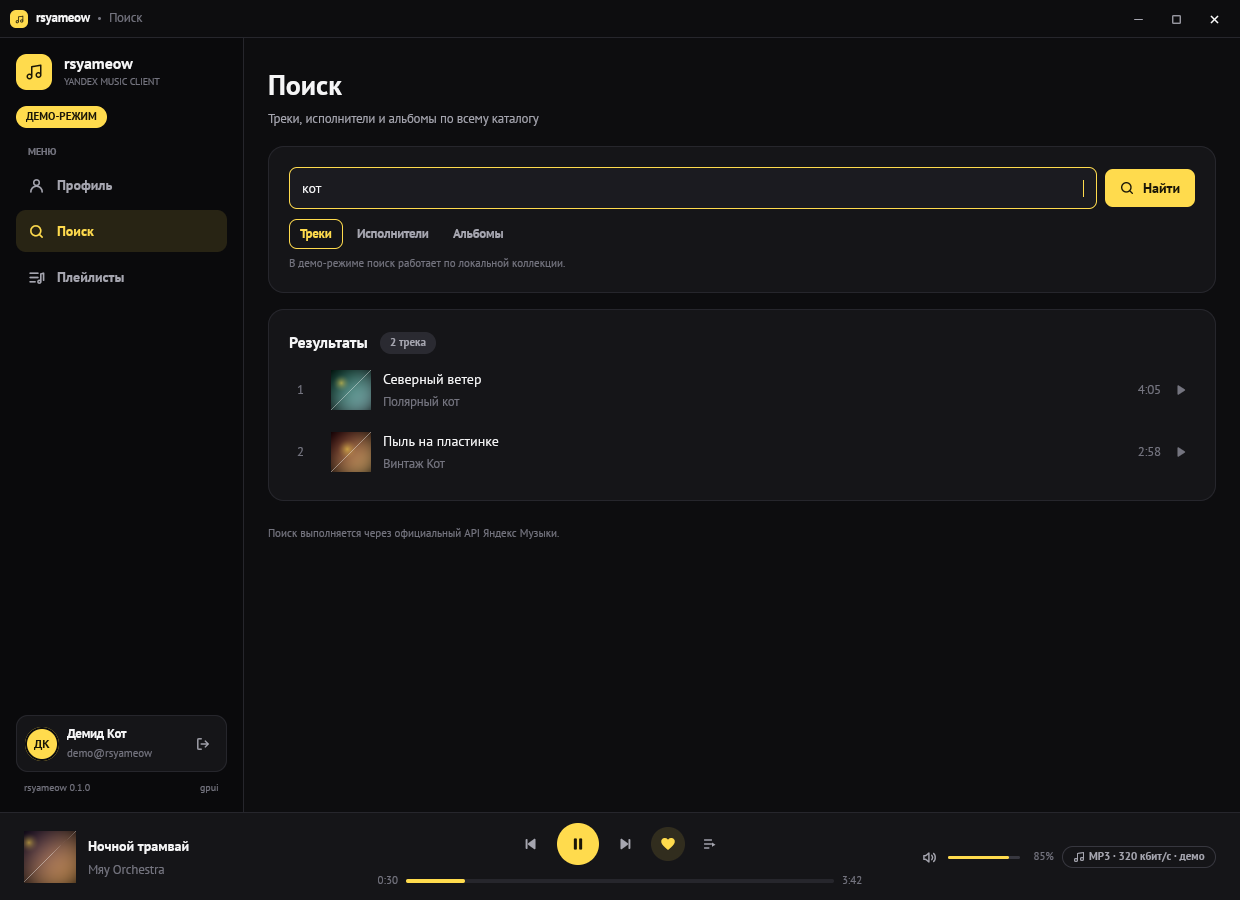
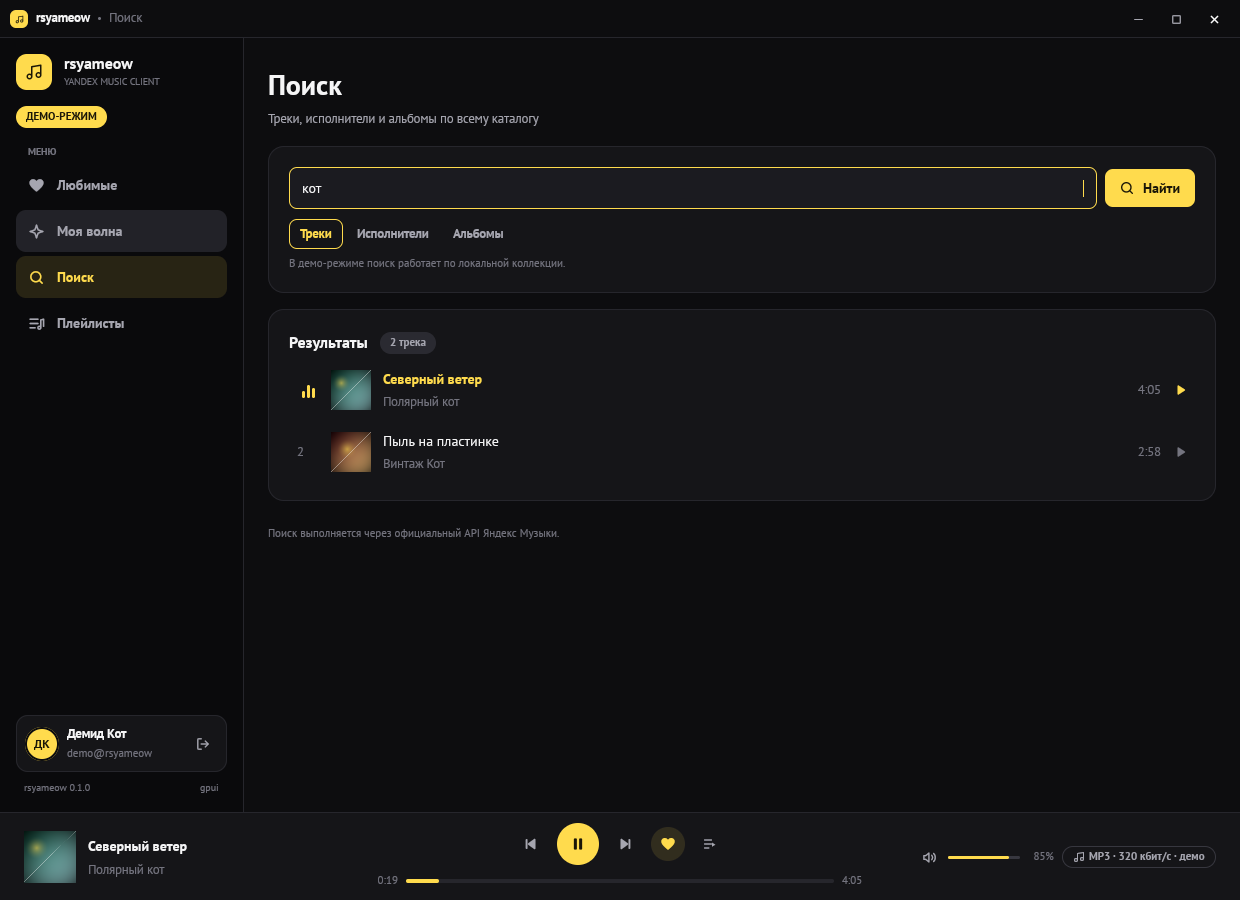
Document new pages and refresh screenshots

diff --git a/crates/app/src/view.rs b/crates/app/src/view.rs
@@ -863,21 +863,7 @@ impl RootView {
                         .flex_col()
                         .gap(px(space::LG))
                         .child(header)
-                        .child(self.liked_section(theme, cx))
-                        .child(
-                            div()
-                                .pt(px(space::SM))
-                                .text_size(px(text::XS))
-                                .text_color(theme.colors.text_muted)
-                                .child(format!(
-                                    "Показаны {} последних треков из {}.",
-                                    self.profile
-                                        .as_ref()
-                                        .map(|profile| profile.sample.len())
-                                        .unwrap_or(0),
-                                    total
-                                )),
-                        ),
+                        .child(self.liked_section(theme, cx)),
                 ),
             )
             .into_any_element()

diff --git a/README.md b/README.md
@@ -3,9 +3,9 @@
 Неофициальный клиент Яндекс Музыки для Linux, написанный на Rust и
 [gpui](https://gpui.rs) — GPU-ускоренном UI-фреймворке из редактора Zed.
 
-Рабочий MVP: авторизация, профиль и подписка, любимые треки, лайки, плейлисты,
-поиск по трекам/исполнителям/альбомам, очередь, lossless-воспроизведение и
-полноценный плеер с перемоткой, громкостью и горячими клавишами.
+Рабочий MVP: авторизация, профиль и подписка, отдельная вкладка любимых треков,
+страницы артистов, альбомов и текущего трека, «Моя волна», плейлисты, поиск,
+очередь, lossless-воспроизведение и сохранение состояния между запусками.
 
 ![Профиль](docs/screenshots/profile.png)
 
@@ -14,20 +14,29 @@
 - **Авторизация через OAuth Device Flow.** Пароль вводится только на сайте
   Яндекса, приложение получает токен и сохраняет его локально с правами `0600`.
   Также можно передать готовый токен через `--token` или `YANDEX_MUSIC_TOKEN`.
-- **Страница профиля.** Имя, логин, UID, регион, дата регистрации, статус
-  Yandex Plus и срок действия подписки, счётчик любимых треков.
-- **Лайки.** Сердце в плеере ставит и снимает отметку «Мне нравится»,
-  обновляя коллекцию и профиль.
+- **Профиль.** Открывается кликом по карточке аккаунта внизу сайдбара. Имя,
+  логин, UID, регион, дата регистрации, статус Plus и подписка; отдельная
+  карточка ведёт в любимые треки.
+- **Любимые треки.** Отдельная вкладка со всей коллекцией «Мне нравится»
+  (загружаются последние 24 трека), запуском и перемешиванием.
+- **Лайки.** Сердце в плеере и на странице трека ставит и снимает отметку
+  «Мне нравится», обновляя коллекцию и профиль.
 - **Плейлисты.** Список плейлистов аккаунта с обложками, страница плейлиста
   с треками, запуск всего плейлиста или вперемешку.
 - **Очередь.** Боковая панель с текущим и предстоящими треками: можно перейти
   к любой композиции. Для длинных очередей показывается окно вокруг текущего
   трека, а названия догружаются по API.
 - **Поиск по каталогу.** Вкладки «Треки», «Исполнители» и «Альбомы»,
-  пагинация, обложки и воспроизведение. Клик по исполнителю или альбому
-  открывает поиск его треков. В демо-режиме поиск работает локально.
-- **Любимые треки.** Загружаются из библиотеки аккаунта (до 24 последних),
-  показываются с обложками, длительностью и подсветкой текущего трека.
+  пагинация и обложки. Клик по исполнителю открывает его страницу, по
+  альбому — страницу альбома. В демо-режиме поиск работает локально.
+- **Страницы артиста и альбома.** Обложка, жанры и счётчики артиста, лента
+  треков и сетка альбомов; страница альбома с треками, годом, длительностью и
+  переходом к артисту. Навигация «назад» возвращает на предыдущий экран.
+- **Страница трека.** Открывается кликом по текущему треку в плеере: обложка,
+  исполнители и альбом со ссылками, качество, длительность и позиция.
+- **Моя волна.** Персональный поток `user:onyourwave`: загрузка партии,
+  воспроизведение, перемешивание и автоматическая догрузка следующей партии,
+  когда очередь заканчивается.
 - **Случайный трек.** Кнопка выбирает случайную композицию из «Мне нравится»,
   получает подписанный файл (FLAC, если доступен, иначе MP3) и запускает
   воспроизведение.
@@ -36,8 +45,9 @@
   на MP3, если FLAC нет или подписка не позволяет. Качество видно в плеере.
 - **Плеер.** Обложка, название, исполнитель, прогресс, пауза/продолжение,
   предыдущий и следующий трек, перемотка кликом по полосе прогресса, громкость
-  и мьют, лайк и кнопка очереди. По окончании трека включается следующий.
-  Аудио выводится через [rodio](https://github.com/RustAudio/rodio).
+  и мьют, лайк и кнопка очереди. Клик по треку открывает его страницу.
+  По окончании трека включается следующий. Аудио выводится через
+  [rodio](https://github.com/RustAudio/rodio).
 - **Демо-режим.** Полноценный интерфейс с вымышленными треками, обложками и
   симуляцией воспроизведения — без сети и токена. Удобно для скриншотов и
   разработки UI.
@@ -45,6 +55,10 @@
   максимизация, кнопки «свернуть / развернуть / закрыть», изменение размера
   перетаскиванием за края и углы. Работает и в Wayland-композиторах без
   серверных декораций.
+- **Сохранение состояния.** При следующем запуске восстанавливаются экран
+  (включая страницы артиста/альбома/трека/плейлиста), поисковый запрос, очередь,
+  текущий трек и позиция. Трек восстанавливается на паузе и загружается по
+  кнопке Play. Состояние хранится в `state.json` с правами `0600`.
 - **Адаптивное окно.** Раскладка перестраивается при изменении размера
   (карточки аккаунта и подписки становятся одноколоночными), а размер окна
   запоминается между запусками в `window.json`. Громкость сохраняется в
@@ -60,11 +74,24 @@
 ![Поиск в демо-режиме](docs/screenshots/search.png)
 
 <p>
+  <img src="docs/screenshots/liked.png" width="49%" alt="Вкладка любимых треков">
+  <img src="docs/screenshots/wave.png" width="49%" alt="Моя волна">
+</p>
+
+<p>
+  <img src="docs/screenshots/artist.png" width="49%" alt="Страница артиста">
+  <img src="docs/screenshots/album.png" width="49%" alt="Страница альбома">
+</p>
+
+<p>
+  <img src="docs/screenshots/track.png" width="49%" alt="Страница трека">
+  <img src="docs/screenshots/queue.png" width="49%" alt="Очередь воспроизведения">
+</p>
+
+<p>
   <img src="docs/screenshots/playlists.png" width="49%" alt="Плейлисты в демо-режиме">
   <img src="docs/screenshots/playlist.png" width="49%" alt="Страница плейлиста">
 </p>
-
-![Очередь воспроизведения](docs/screenshots/queue.png)
 
 ## Горячие клавиши
 
@@ -170,6 +197,9 @@ cargo build --release -p rsyameow
 | Поиск | `GET /search?type=track\|artist\|album` |
 | Лайк / анлайк | `POST /users/{uid}/likes/tracks/add-multiple` / `remove` |
 | Плейлисты | `GET /users/{uid}/playlists/list` и `/users/{uid}/playlists/{kind}` |
+| Артист | `GET /artists/{id}/brief-info`, `/tracks`, `/direct-albums` |
+| Альбом | `GET /albums/{id}/with-tracks` |
+| Моя волна | `GET /rotor/station/user:onyourwave/tracks` |
 | Любимые треки | `GET /users/{uid}/likes/tracks` |
 | Полные треки | `POST /tracks` |
 | Варианты загрузки | `GET /tracks/{id}/download-info` |
@@ -178,9 +208,10 @@ cargo build --release -p rsyameow
 | Обложки | `https://<coverUri>` |
 
 Портируются модели `Account`, `Status`, `Permissions`, `Plus`, `Subscription`,
-`Track`, `TrackShort`, `TracksList`, `Artist`, `Album`, `Playlist`, `User`,
-`Cover`, `SearchResult`, `DownloadInfo`, `FileInfo`, `FileDownloadInfo`,
-`DeviceCode`, `OAuthToken`. Формат запросов и подписи прямых ссылок повторяет
+`Track`, `TrackShort`, `TracksList`, `Artist`, `ArtistTracks`, `ArtistAlbums`,
+`Album`, `Pager`, `Playlist`, `User`, `WaveBatch`, `WaveSequence`, `Cover`,
+`SearchResult`, `DownloadInfo`, `FileInfo`, `FileDownloadInfo`, `DeviceCode`,
+`OAuthToken`. Формат запросов и подписи прямых ссылок повторяет
 [`MarshalX/yandex-music-api`](https://github.com/MarshalX/yandex-music-api).
 
 Пример использования:
@@ -218,10 +249,11 @@ cargo fmt --all --check
 
 Клиент тестируется на локальном HTTP-сервере без внешней сети: проверяются
 разбор ответов, повторяющиеся поля формы, OAuth pending/success, коды ошибок,
-поиск треков/исполнителей/альбомов, плейлисты, лайки, построение MD5- и
-HMAC-подписей, lossless-загрузка и обложки. Авторизация device flow была
-дополнительно проверена вручную против настоящего OAuth-сервера Яндекса. Живые сценарии требуют действующего
-токена и в CI не запускаются.
+поиск треков/исполнителей/альбомов, плейлисты, лайки, страницы артистов и
+альбомов, «Моя волна», построение MD5- и HMAC-подписей, lossless-загрузка и
+обложки. Авторизация device flow дополнительно проверена вручную против
+настоящего OAuth-сервера Яндекса. Живые сценарии требуют токена и в CI не
+запускаются.
 
 ## Известные ограничения
 
@@ -233,14 +265,17 @@ HMAC-подписей, lossless-загрузка и обложки. Автори
 - Очередь последовательная: «Перемешать» выбирает случайный стартовый трек,
   но дальше воспроизведение идёт по порядку плейлиста. Для очередей длиннее
   40 треков панель показывает окно вокруг текущего.
-- Нет «Моей волны»/радио, текстов песен, скачивания для офлайна и
-  редактирования плейлистов.
-- Отдельных страниц исполнителей и альбомов нет: клик по ним запускает
-  поиск треков по названию.
+- «Моя волна» не отправляет лайки/дизлайки и не настраивает настроение или
+  энергию; догрузка идёт по последнему треку очереди.
+- На странице артиста показываются первые 50 треков и 50 альбомов; отдельной
+  пагинации нет. Альбом загружается целиком.
+- На странице трека нет текста песни, клипа и похожих треков.
 - В плейлисте отображаются первые 50–100 треков (столько отдаёт API за один
   запрос); пагинация плейлиста пока не сделана.
-- В «Любимых треках» на странице профиля показываются 24 последних трека,
-  хотя счётчик отражает всю коллекцию.
+- Во вкладке «Любимые» показываются 24 последних трека, хотя счётчик отражает
+  всю коллекцию.
+- Состояние сохраняет экран, очередь и позицию, но не позицию прокрутки и не
+  результаты поиска до повторного запроса.
 - Текстовое поле поддерживает набор, Backspace, Enter и вставку, но не IME и не
   выделение мышью — этого достаточно для токена и поискового запроса.
 - Токен не обновляется автоматически; при истечении нужно войти заново.
